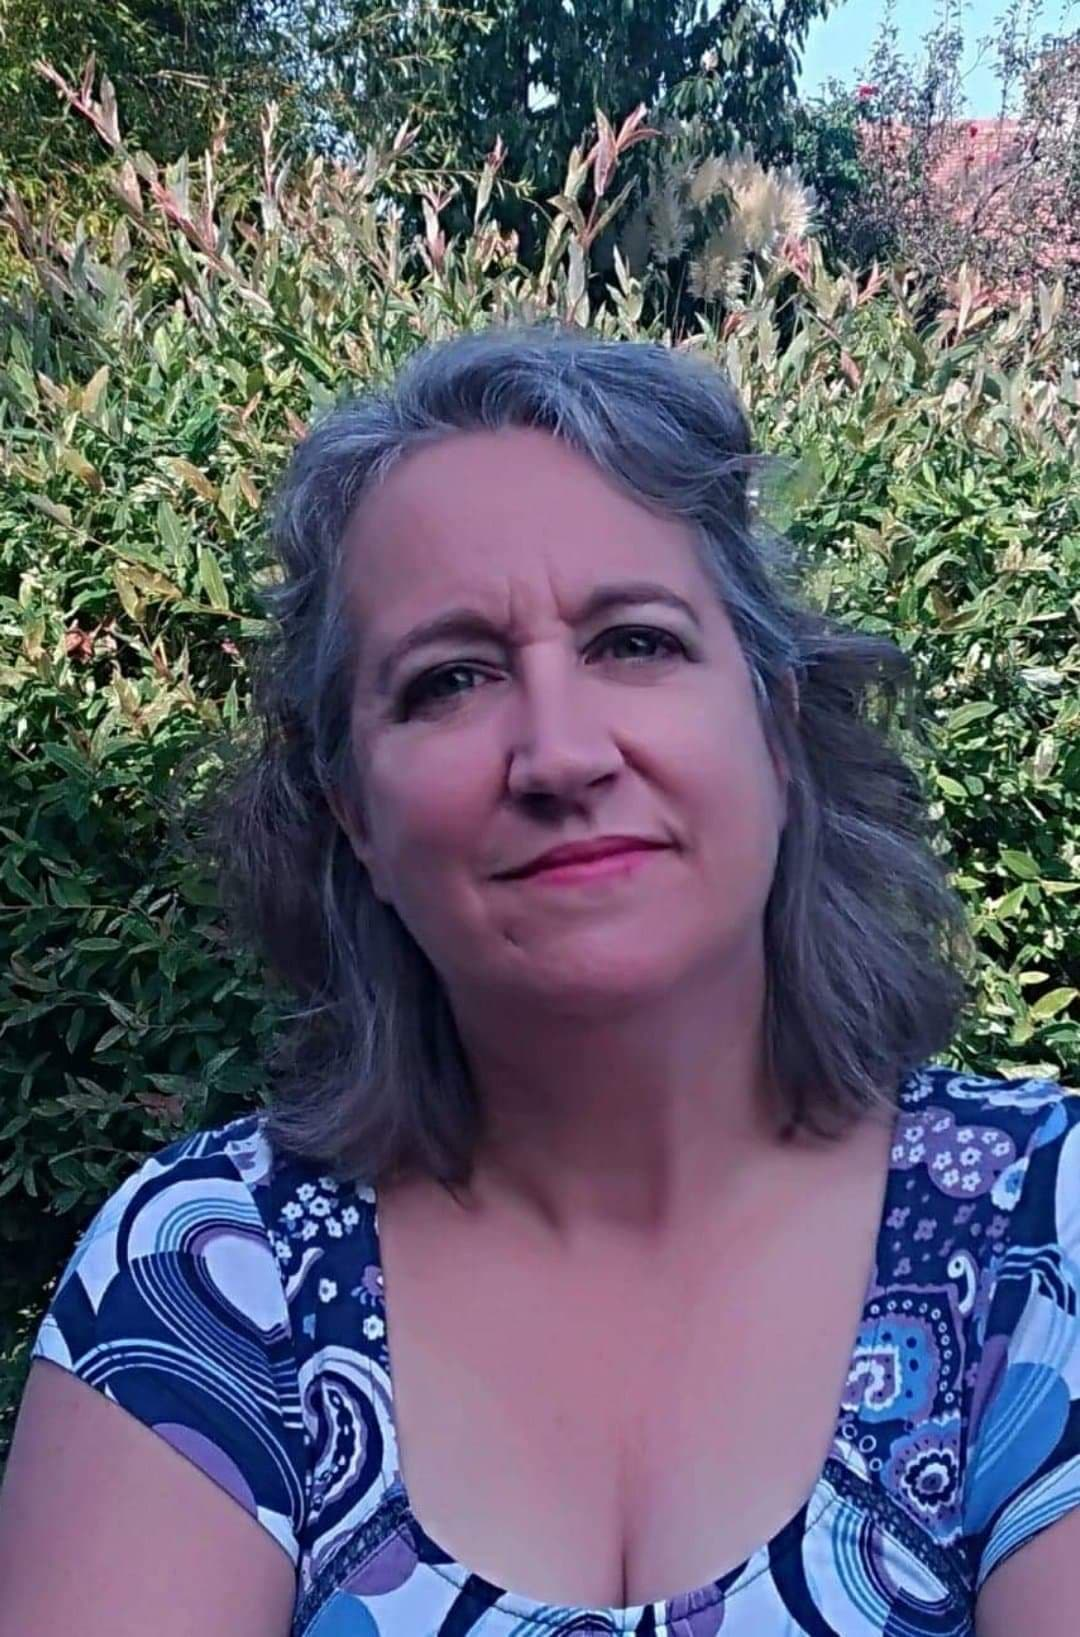
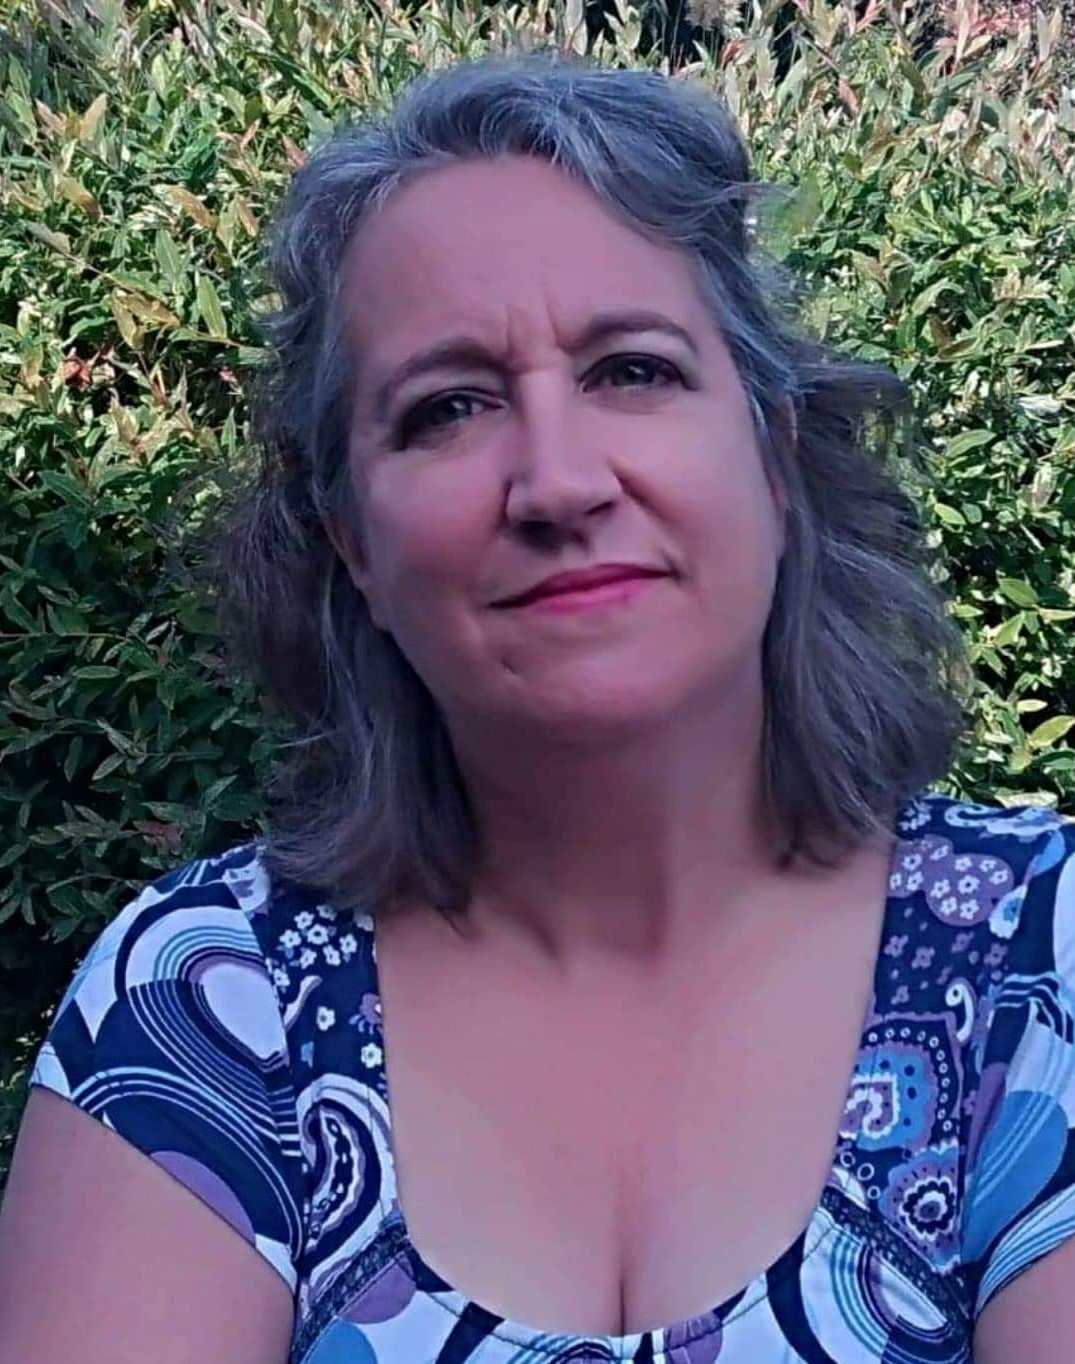
rejigged the landing

diff --git a/site/scss/index.css b/site/scss/index.css
@@ -8142,12 +8142,51 @@ body {
   padding: 100px 0 100px 0;
 }
 
-section {
-  margin: 0 0 100px 0;
+.introduction {
+  border-radius: 10px;
+  padding: 19px 35px;
+  background: #fafafad0;
+  text-align: center;
+}
+.introduction #bacp-logo {
+  margin: 40px 0 60px 0;
+  max-height: 60px;
+  width: auto;
+}
+.introduction h1 {
+  font-size: 3rem;
+  font-family: "Lato", sans-serif;
+  font-weight: 700;
+}
+.introduction h2 {
+  font-size: 2rem;
+  font-weight: 100;
+}
+.introduction h3 {
+  font-size: 2rem;
+  margin-top: 70px;
+  font-weight: 300;
+}
+.introduction h4 {
+  font-size: 1.3rem;
+}
+.introduction .col {
+  height: 510px;
+}
+.introduction .headshot {
+  height: 100%;
+  display: flex;
+  justify-content: center;
+  align-items: center;
+}
+.introduction .headshot img {
+  border-radius: 3px;
+  max-height: 450px;
+  width: auto;
 }
 
-#bacp-logo {
-  padding: 50px;
+section {
+  margin: 0 0 100px 0;
 }
 
 .text-section .row {
@@ -8181,33 +8220,11 @@ section {
   height: 100%;
 }
 
-.introduction {
-  border-radius: 10px;
-  padding: 100px 60px;
-  background: #fafafaa0;
-  text-align: center;
-}
-.introduction h1 {
-  font-size: 3.8rem;
-  font-family: "Lato", sans-serif;
-  font-weight: 700;
-}
-.introduction h2 {
-  font-size: 2.2rem;
-  font-weight: 100;
-}
-.introduction h3 {
-  font-size: 2.5rem;
-  margin-top: 70px;
-}
-.introduction h4 {
-  font-size: 1.5rem;
-}
-
 .questions {
   position: relative;
 }
 .questions h4 {
+  font-weight: 600;
   width: 100%;
   top: 50%;
   left: 50%;

diff --git a/site/scss/index.scss b/site/scss/index.scss
@@ -54,13 +54,65 @@
 
 }
 
+.introduction {
+  border-radius: 10px;
+  padding: 19px 35px;
+  background: #fafafad0;
+  text-align: center;
+
+  #bacp-logo {
+    margin: 40px 0 60px 0;
+    max-height: 60px;
+    width: auto;
+  }
+
+  h1 {
+    font-size: 3rem;
+    font-family: 'Lato', sans-serif;
+    font-weight: 700;
+  }
+
+  h2 {
+    font-size: 2rem;
+    font-weight: 100;
+  }
+
+  h3 {
+    font-size: 2rem;
+    margin-top: 70px;
+    font-weight: 300;
+  }
+
+  h4 {
+    font-size: 1.3rem;
+  }
+
+  .col {
+    height: 510px;
+  }
+
+  .headshot {
+    height: 100%;
+    display: flex;
+    justify-content: center;
+    align-items: center;
+
+    img {
+      border-radius: 3px;
+      max-height: 450px;
+      width: auto;
+    }
+
+    //padding: 50px
+  }
+
+
+}
+
 section {
   margin: 0 0 100px 0;
 }
 
-#bacp-logo {
-  padding: 50px;
-}
 
 .text-section {
   .row {
@@ -97,40 +149,11 @@ section {
   height: 100%;
 }
 
-.introduction {
-  border-radius: 10px;
-  padding: 100px 60px;
-  background: #fafafaa0;
-  text-align: center;
-
-
-  h1 {
-    font-size: 3.8rem;
-    font-family: 'Lato', sans-serif;
-    font-weight: 700;
-  }
-
-  h2 {
-    font-size: 2.2rem;
-    font-weight: 100;
-  }
-
-  h3 {
-    font-size: 2.5rem;
-    margin-top: 70px;
-  }
-
-  h4 {
-    font-size: 1.5rem;
-  }
-
-
-}
 
 .questions {
   position: relative;
-
   h4 {
+    font-weight: 600;
     width: 100%;
     top: 50%;
     left: 50%;

diff --git a/site/index.html b/site/index.html
@@ -34,12 +34,12 @@
     <section id="landing">
         <div class="container">
             <div class="row introduction">
-                <div class="col s12 m6">
-                    <picture class="headshot">
+                <div class="col s12 m5">
+                    <div class="headshot">
                         <img src="./img/debbie.jpg" alt="A picture of Debbie Livermore">
-                    </picture>
+                    </div>
                 </div>
-                <div class="col s12 m6">
+                <div class="col s12 m7">
                     <h1>
                         Debbie Livermore
                     </h1>
